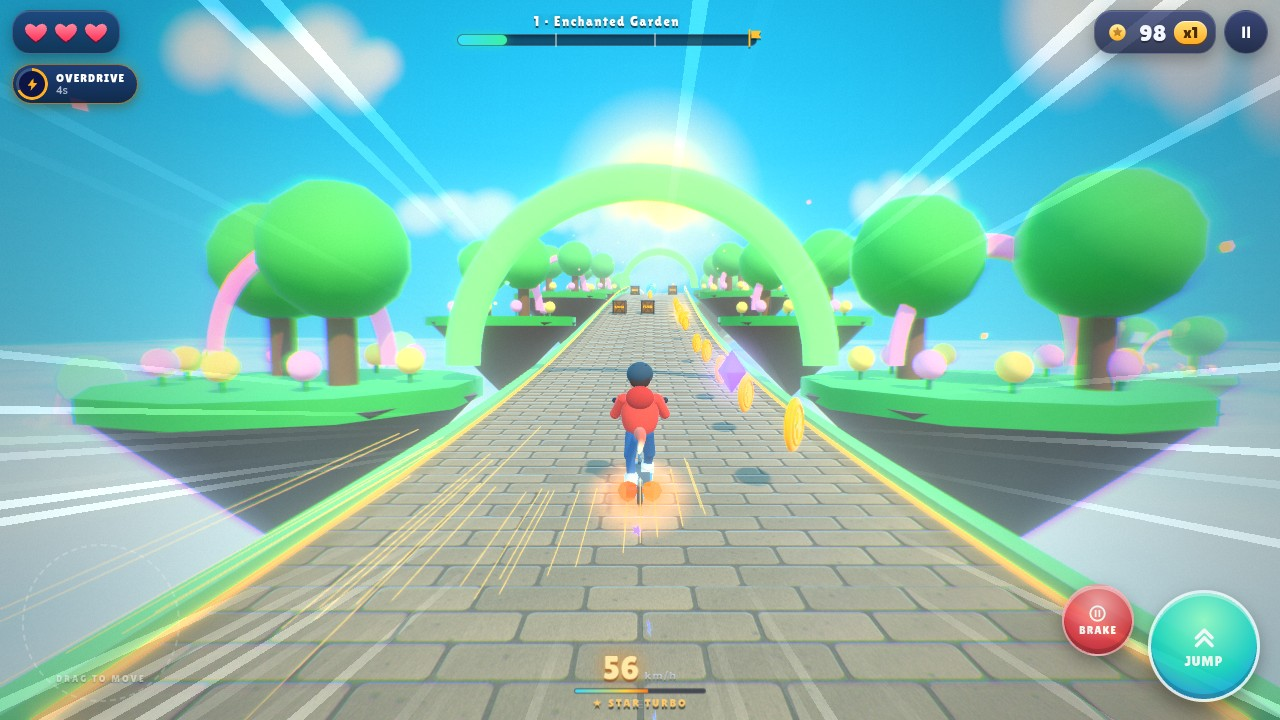
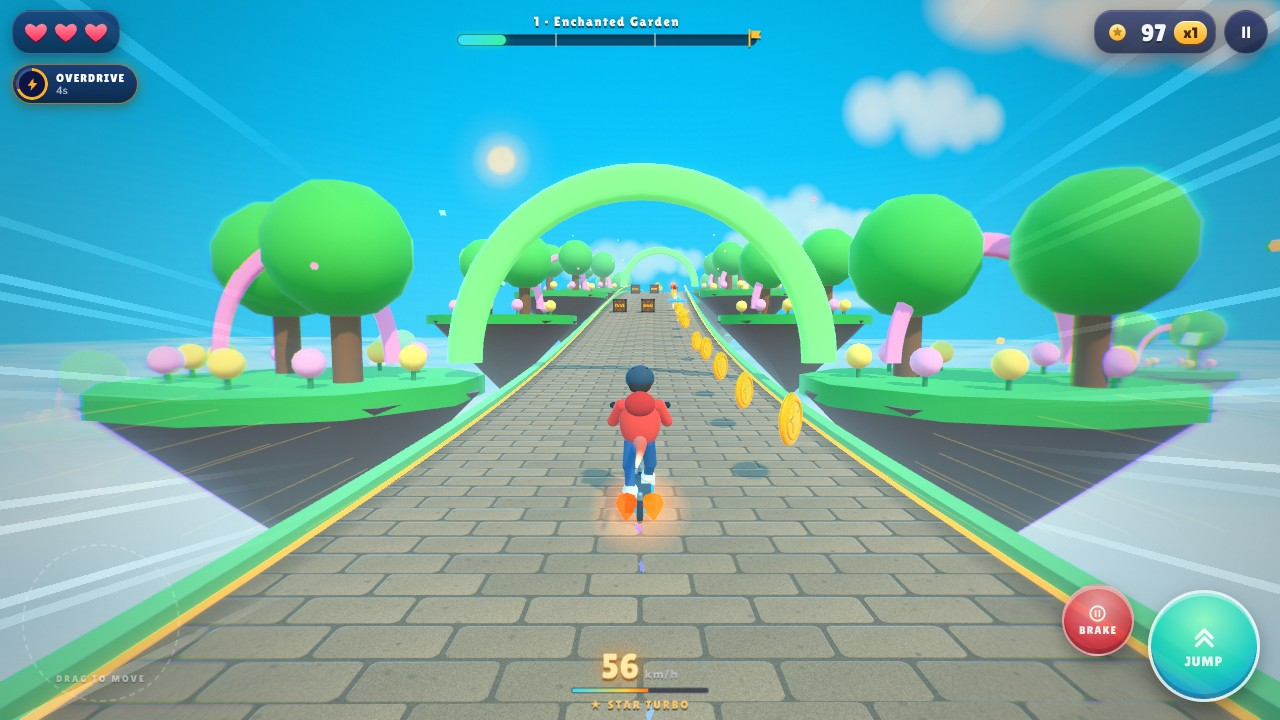
feat: readable lighting — remove sun glare, cut bloom and haze across all worlds
- Sun/moon disc below HDR white, smaller, moved off the road's vanishing point
- God rays reduced ~85% and kept clear of the play area
- Bloom presets softened (threshold >= 1.0), lower highlight tints and exposure on warm/snow/final worlds
- Fog sun-scatter and fresnel rim reduced; thinner fog in warm worlds
- Storm glass road no longer reflects a specular streak; route edge glows trimmed
- Key light slightly lower with more fill so scenes stay bright
- Refreshed README screenshots

Claude-Session: https://claude.ai/code/session_01XBGyhc1orUL9UE9TJQYtvX

diff --git a/app/src/main/assets/game/js/postFx.js b/app/src/main/assets/game/js/postFx.js
@@ -29,10 +29,10 @@ window.PostFX = class PostFX {
     const C = THREE.Color;
     // Live (smoothed) grade values and the preset they are easing toward.
     this.state = {
-      exposure: 1.0, bloom: 0.45, threshold: 1.0, knee: 0.6, saturation: 1.1, contrast: 1.08, vignette: 0.32,
+      exposure: 1.0, bloom: 0.26, threshold: 1.05, knee: 0.35, saturation: 1.1, contrast: 1.08, vignette: 0.32,
       bloomTint: new C(1, 1, 1), temp: new C(1, 1, 1), shadowTint: new C(0, 0, 0), highlightTint: new C(0, 0, 0),
       vignetteColor: new C(0, 0, 0), grain: 0.008, ca: 0, speed: 0, speedLines: 0, flash: 0, warn: 0, flashColor: new C(1, 0.12, 0.1),
-      lift: 0.0, god: 0.35, godLive: 0, sunUV: new C(0.5, 0.8, 0)
+      lift: 0.0, god: 0.08, godLive: 0, sunUV: new C(0.5, 0.8, 0)
     };
     this.target = this.cloneState(this.state);
     this.features = { blur: true, ca: true, lines: true, grain: true, rays: true };
@@ -243,7 +243,7 @@ window.PostFX = class PostFX {
           col.r = texture2D(tScene, uv - o).r;
           col.b = texture2D(tScene, uv + o).b;
         }
-        vec3 bloomC = uUseBloom > 0.5 ? texture2D(tBloom, uv).rgb * uBloom * uBloomTint * mix(0.68, 1.0, peripheral) : vec3(0.0);
+        vec3 bloomC = uUseBloom > 0.5 ? texture2D(tBloom, uv).rgb * uBloom * uBloomTint * mix(0.55, 1.0, peripheral) : vec3(0.0);
         // Crepuscular rays: radially smear the bright (sun) pixels toward the sun; trees and
         // islands are dark in the bloom buffer, so the rays are naturally cut by them.
         if (uGod > 0.004 && uUseBloom > 0.5) {
@@ -254,7 +254,7 @@ window.PostFX = class PostFX {
           for (int i = 0; i < 10; i++) { sp += stepv; rays += texture2D(tBloom, sp).rgb * wgt; wgt *= 0.9; }
           // Keep the rider (screen centre, lower half) free of the veil so the hero always reads.
           float clearZone = smoothstep(0.10, 0.34, length((uv - uCenter) * vec2(aspect, 1.0)));
-          bloomC += rays * uGod * falloff * clearZone * mix(0.28, 1.0, peripheral) * 0.06 * uBloomTint;
+          bloomC += rays * uGod * falloff * clearZone * mix(0.15, 1.0, peripheral) * 0.018 * uBloomTint;
         }
         vec3 c;
         if (uFxaa > 0.5 && localSpeed < 0.002 && localCA < 0.0005) {
@@ -391,25 +391,27 @@ window.PostFX = class PostFX {
   // ---------- Grade presets ----------
   // Values are targets; the live state eases toward them so world changes cross-fade.
   static presetFor(theme) {
-    const base = { exposure: 1.02, bloom: 0.42, threshold: 0.95, knee: 0.4, saturation: 1.12, contrast: 1.1, vignette: 0.30,
-      temp: [1.02, 1.0, 0.97], shadow: [0.0, 0.01, 0.03], highlight: [0.03, 0.02, 0.0], bloomTint: [1, 0.96, 0.9], vignetteColor: [0.02, 0.04, 0.08], lift: 0.0, god: 0.26 };
+    // Readability pass: bloom only catches true highlights (threshold >= 1), stays soft, and
+    // light shafts are a faint accent. Saturation/contrast/tints keep each world's look.
+    const base = { exposure: 1.0, bloom: 0.26, threshold: 1.05, knee: 0.35, saturation: 1.12, contrast: 1.1, vignette: 0.26,
+      temp: [1.02, 1.0, 0.97], shadow: [0.0, 0.01, 0.03], highlight: [0.02, 0.012, 0.0], bloomTint: [1, 0.96, 0.9], vignetteColor: [0.02, 0.04, 0.08], lift: 0.0, god: 0.08 };
     const P = {
       garden:       { ...base },
-      desert:       { ...base, god: 0.3, exposure: 0.93, temp: [1.06, 1.0, 0.9], saturation: 1.16, highlight: [0.05, 0.025, 0.0], bloom: 0.36, shadow: [0.03, 0.0, 0.01], vignetteColor: [0.08, 0.03, 0.0] },
-      forest:       { ...base, temp: [0.98, 1.03, 0.98], shadow: [0.0, 0.03, 0.02], saturation: 1.14, vignette: 0.36, vignetteColor: [0.0, 0.05, 0.03] },
-      castle_bridge:{ ...base, temp: [1.0, 1.0, 1.02], contrast: 1.12 },
-      waterfalls:   { ...base, temp: [0.97, 1.02, 1.05], saturation: 1.15, bloom: 0.5 },
-      crystal:      { ...base, god: 0.14, temp: [1.0, 0.97, 1.06], shadow: [0.03, 0.0, 0.07], highlight: [0.03, 0.0, 0.05], saturation: 1.2, bloom: 0.58, threshold: 0.9, contrast: 1.14, vignette: 0.4, vignetteColor: [0.05, 0.0, 0.1] },
-      snow:         { ...base, god: 0.16, temp: [0.97, 1.0, 1.06], saturation: 1.04, exposure: 0.9, bloom: 0.22, threshold: 1.15, lift: 0.0, shadow: [0.0, 0.02, 0.05] },
-      volcano:      { ...base, god: 0.5, temp: [1.08, 0.97, 0.9], shadow: [0.06, 0.0, 0.0], highlight: [0.06, 0.02, 0.0], saturation: 1.18, contrast: 1.18, bloom: 0.7, threshold: 0.85, vignette: 0.45, vignetteColor: [0.1, 0.0, 0.0] },
-      mushroom:     { ...base, temp: [1.02, 1.0, 1.02], saturation: 1.2, bloom: 0.55, shadow: [0.04, 0.0, 0.05] },
-      temple:       { ...base, god: 0.4, exposure: 0.96, temp: [1.06, 1.02, 0.92], saturation: 1.1, highlight: [0.05, 0.03, 0.0], vignette: 0.36, vignetteColor: [0.06, 0.03, 0.0] },
-      sunset:       { ...base, god: 0.7, temp: [1.09, 0.99, 0.9], saturation: 1.2, bloom: 0.62, threshold: 0.85, highlight: [0.06, 0.02, 0.01], shadow: [0.04, 0.0, 0.04], vignette: 0.38, vignetteColor: [0.1, 0.02, 0.04] },
-      workshop:     { ...base, temp: [1.03, 1.0, 0.96], saturation: 1.05, contrast: 1.14, bloom: 0.5 },
-      storm:        { ...base, god: 0.0, temp: [0.96, 1.0, 1.05], saturation: 0.98, contrast: 1.16, exposure: 0.98, vignette: 0.5, bloom: 0.5, shadow: [0.0, 0.02, 0.05], vignetteColor: [0.0, 0.02, 0.06] },
-      moon:         { ...base, god: 0.22, temp: [0.96, 0.98, 1.08], saturation: 1.12, bloom: 0.85, threshold: 0.75, contrast: 1.16, vignette: 0.46, shadow: [0.02, 0.02, 0.08], highlight: [0.02, 0.03, 0.06], vignetteColor: [0.02, 0.02, 0.08], exposure: 1.05 },
-      rapids:       { ...base, temp: [1.0, 1.0, 1.02], saturation: 1.22, bloom: 0.6 },
-      grand_run:    { ...base, god: 0.16, exposure: 0.84, saturation: 1.15, bloom: 0.34, threshold: 1.1, contrast: 1.14 }
+      desert:       { ...base, god: 0.08, exposure: 0.9, temp: [1.04, 1.0, 0.93], saturation: 1.14, highlight: [0.025, 0.012, 0.0], bloom: 0.22, shadow: [0.02, 0.0, 0.01], vignetteColor: [0.08, 0.03, 0.0] },
+      forest:       { ...base, temp: [0.98, 1.03, 0.98], shadow: [0.0, 0.03, 0.02], saturation: 1.14, vignette: 0.3, vignetteColor: [0.0, 0.05, 0.03] },
+      castle_bridge:{ ...base, temp: [1.0, 1.0, 1.02], contrast: 1.12, exposure: 0.97 },
+      waterfalls:   { ...base, temp: [0.97, 1.02, 1.05], saturation: 1.15, bloom: 0.3 },
+      crystal:      { ...base, god: 0.05, temp: [1.0, 0.97, 1.06], shadow: [0.03, 0.0, 0.07], highlight: [0.02, 0.0, 0.03], saturation: 1.18, bloom: 0.36, threshold: 1.0, contrast: 1.14, vignette: 0.34, vignetteColor: [0.05, 0.0, 0.1] },
+      snow:         { ...base, god: 0.05, temp: [0.97, 1.0, 1.05], saturation: 1.06, exposure: 0.86, bloom: 0.16, threshold: 1.2, lift: 0.0, contrast: 1.14, shadow: [0.0, 0.02, 0.05] },
+      volcano:      { ...base, god: 0.1, temp: [1.06, 0.98, 0.92], shadow: [0.05, 0.0, 0.0], highlight: [0.03, 0.01, 0.0], saturation: 1.15, contrast: 1.16, bloom: 0.36, threshold: 1.0, vignette: 0.38, vignetteColor: [0.1, 0.0, 0.0] },
+      mushroom:     { ...base, temp: [1.02, 1.0, 1.02], saturation: 1.18, bloom: 0.32, shadow: [0.04, 0.0, 0.05] },
+      temple:       { ...base, god: 0.08, exposure: 0.92, temp: [1.04, 1.01, 0.94], saturation: 1.1, highlight: [0.025, 0.015, 0.0], vignette: 0.3, vignetteColor: [0.06, 0.03, 0.0] },
+      sunset:       { ...base, god: 0.12, exposure: 0.93, temp: [1.06, 0.99, 0.93], saturation: 1.16, bloom: 0.34, threshold: 1.0, highlight: [0.03, 0.01, 0.005], shadow: [0.04, 0.0, 0.04], contrast: 1.14, vignette: 0.32, vignetteColor: [0.1, 0.02, 0.04] },
+      workshop:     { ...base, temp: [1.03, 1.0, 0.96], saturation: 1.06, contrast: 1.14, bloom: 0.3 },
+      storm:        { ...base, god: 0.0, temp: [0.96, 1.0, 1.05], saturation: 1.0, contrast: 1.16, exposure: 0.98, vignette: 0.4, bloom: 0.3, shadow: [0.0, 0.02, 0.05], vignetteColor: [0.0, 0.02, 0.06] },
+      moon:         { ...base, god: 0.05, temp: [0.96, 0.98, 1.08], saturation: 1.12, bloom: 0.42, threshold: 0.95, contrast: 1.16, vignette: 0.38, shadow: [0.02, 0.02, 0.08], highlight: [0.01, 0.02, 0.04], vignetteColor: [0.02, 0.02, 0.08], exposure: 1.02 },
+      rapids:       { ...base, temp: [1.0, 1.0, 1.02], saturation: 1.18, bloom: 0.32, exposure: 0.96 },
+      grand_run:    { ...base, god: 0.05, exposure: 0.8, saturation: 1.16, bloom: 0.2, threshold: 1.2, contrast: 1.18 }
     };
     return P[theme] || P.garden;
   }

diff --git a/app/src/main/assets/game/js/skyAtmosphere.js b/app/src/main/assets/game/js/skyAtmosphere.js
@@ -267,7 +267,7 @@ window.SkyAtmosphere = class SkyAtmosphere {
         const wr=Math.round(warm.r*255),wg=Math.round(warm.g*255),wb=Math.round(warm.b*255);
         const glow=ctx.createLinearGradient(0,190,0,300);
         glow.addColorStop(0,'rgba(255,255,255,0)');
-        glow.addColorStop(1,`rgba(${wr},${wg},${wb},${warmTheme?.34:.26})`);
+        glow.addColorStop(1,`rgba(${wr},${wg},${wb},${warmTheme?.16:.12})`);
         ctx.fillStyle=glow;ctx.fillRect(0,190,1024,110);
       }
 
@@ -315,9 +315,9 @@ window.SkyAtmosphere = class SkyAtmosphere {
     if (ctx) {
       const g = ctx.createRadialGradient(128, 128, 0, 128, 128, 128);
       g.addColorStop(0, 'rgba(255,255,255,1)');
-      g.addColorStop(0.12, 'rgba(255,255,255,1)');
-      g.addColorStop(0.3, 'rgba(255,255,255,0.75)');
-      g.addColorStop(0.6, 'rgba(255,255,255,0.25)');
+      g.addColorStop(0.2, 'rgba(255,255,255,1)');
+      g.addColorStop(0.28, 'rgba(255,255,255,0.45)');
+      g.addColorStop(0.55, 'rgba(255,255,255,0.08)');
       g.addColorStop(1, 'rgba(255,255,255,0)');
       ctx.fillStyle = g;
       ctx.fillRect(0, 0, 256, 256);
@@ -343,21 +343,23 @@ window.SkyAtmosphere = class SkyAtmosphere {
       this.sunWorld = null;
       return;
     }
+    // Readability: the disc stays below HDR white (no bloom/ray source), is smaller, and sits
+    // off to the side of the route so it never glares over the road's vanishing point.
     if (this.isNight) {
-      this.sunSprite.material.color.set(0xdfe9ff).multiplyScalar(1.7);
-      this.sunSprite.material.opacity = 0.9;
-      this.sunSprite.scale.set(110, 110, 1);
-      this.sunWorld = { lateral: -60, height: 100, distance: 420 };
+      this.sunSprite.material.color.set(0xdfe9ff).multiplyScalar(0.95);
+      this.sunSprite.material.opacity = 0.8;
+      this.sunSprite.scale.set(80, 80, 1);
+      this.sunWorld = { lateral: -170, height: 125, distance: 420 };
     } else if (theme === 'sunset' || theme === 'volcano' || theme === 'desert') {
-      this.sunSprite.material.color.set(0xffc98a).multiplyScalar(1.6);
-      this.sunSprite.material.opacity = 1.0;
-      this.sunSprite.scale.set(230, 230, 1);
-      this.sunWorld = { lateral: 0, height: 42, distance: 520 };
+      this.sunSprite.material.color.set(0xffd2a0).multiplyScalar(0.9);
+      this.sunSprite.material.opacity = 0.75;
+      this.sunSprite.scale.set(120, 120, 1);
+      this.sunWorld = { lateral: 190, height: 80, distance: 520 };
     } else {
-      this.sunSprite.material.color.set(0xffe9b8).multiplyScalar(1.45);
-      this.sunSprite.material.opacity = 1.0;
-      this.sunSprite.scale.set(185, 185, 1);
-      this.sunWorld = { lateral: 30, height: 105, distance: 450 };
+      this.sunSprite.material.color.set(0xfff0cc).multiplyScalar(0.92);
+      this.sunSprite.material.opacity = 0.75;
+      this.sunSprite.scale.set(100, 100, 1);
+      this.sunWorld = { lateral: 170, height: 135, distance: 450 };
     }
     this.sunSprite.visible = true;
   }

diff --git a/app/src/main/assets/game/js/game.js b/app/src/main/assets/game/js/game.js
@@ -219,11 +219,11 @@ window.SkyScooterGame = class SkyScooterGame {
       rimColor = new THREE.Color(0x9fd9ff); rimIntensity = 1.0;
     } else if (isWarm) {
       dirColor = new THREE.Color(0xffc48f);
-      dirIntensity = 2.7; hemiIntensity = 0.85; exposure = 1.04;
+      dirIntensity = 2.3; hemiIntensity = 0.92; exposure = 1.0;
       rimColor = new THREE.Color(0xffa26b); rimIntensity = 1.2;
     } else {
       dirColor = new THREE.Color(0xfff0d6);
-      dirIntensity = 2.6; hemiIntensity = 0.95; exposure = 1.0;
+      dirIntensity = 2.35; hemiIntensity = 1.0; exposure = 1.0;
       rimColor = new THREE.Color(0xa6d8ff); rimIntensity = 0.95;
     }
 
@@ -262,6 +262,8 @@ window.SkyScooterGame = class SkyScooterGame {
     new this.THREE.Color(roundData.skyColor).getHSL(hsl);
     if (hsl.l < 0.35) return 0.004;
     if (roundData.theme === 'storm') return 0.009;
+    // Warm worlds have bright, saturated fog: thinner so far hazards keep their contrast.
+    if (['desert', 'temple', 'sunset', 'volcano'].includes(roundData.theme)) return 0.0048;
     return 0.006;
   }
 

diff --git a/app/src/main/assets/game/js/roadArt.js b/app/src/main/assets/game/js/roadArt.js
@@ -311,7 +311,7 @@ window.RoadArt = class RoadArt {
     for (let x = 0; x <= W; x += 128) for (const c of [ctx, gctx]) { c.beginPath(); c.moveTo(x, 0); c.lineTo(x, H); c.stroke(); }
     for (let y = 0; y <= H; y += 128) for (const c of [ctx, gctx]) { c.beginPath(); c.moveTo(0, y); c.lineTo(W, y); c.stroke(); }
     this.wrap(ctx, () => { for (let i = 0; i < 5; i++) { const x = R() * W; const s = ctx.createLinearGradient(x, 0, x + 140, H); s.addColorStop(0, 'rgba(255,255,255,0)'); s.addColorStop(0.5, 'rgba(255,255,255,0.13)'); s.addColorStop(1, 'rgba(255,255,255,0)'); ctx.fillStyle = s; ctx.fillRect(x, 0, 140, H); } });
-    spec.glow = 0.8; spec.roughness = 0.26; spec.metalness = 0.2; spec.bump = 0; spec.env = 1.25; // glassy, not a mirror
+    spec.glow = 0.6; spec.roughness = 0.42; spec.metalness = 0.15; spec.bump = 0; spec.env = 0.85; // glassy, no specular streak down the lane
   }
   paint_moon(P, spec) {
     const { ctx, hctx, R, base } = P, W = this.W, H = this.H;

diff --git a/app/src/main/assets/game/js/enhancedTrack.js b/app/src/main/assets/game/js/enhancedTrack.js
@@ -87,7 +87,7 @@ window.TrackGenerator = class EnhancedTrack extends window.TrackGenerator {
       this.roadArt.disposeExcept(art);
     }
     this.routeCurb.color.set(round.railColor).multiplyScalar(.85);
-    this.routeGlow.color.copy(this.routeAccent.color).multiplyScalar(['crystal_floor','lava_plates','moon_rocks','storm_skyway','rainbow_rapids'].includes(round.routeStyle)?2.6:1.9);
+    this.routeGlow.color.copy(this.routeAccent.color).multiplyScalar(['crystal_floor','lava_plates','moon_rocks','storm_skyway','rainbow_rapids'].includes(round.routeStyle)?2.0:1.6);
     this.cityRoad.color.set(round.roadColor);
     this.citySidewalk.color.set(round.theme==='snow'?0xb7c4ca:0x818b96);
     this.cityRail.color.set(round.theme==='neon'?0x3a5a79:0x334552);

diff --git a/app/src/main/assets/game/js/materialFx.js b/app/src/main/assets/game/js/materialFx.js
@@ -116,9 +116,9 @@ window.SceneFx = (function () {
       const night = ['moon', 'neon'].includes(theme);
       const storm = theme === 'storm';
       U.uSunColor.value.set(night ? 0xa9c1ff : warm ? 0xffb066 : storm ? 0xcfe4ff : 0xffe4a8);
-      U.uSunScatter.value = night ? 0.3 : storm ? 0.2 : warm ? 0.5 : 0.4;
+      U.uSunScatter.value = night ? 0.12 : storm ? 0.08 : warm ? 0.16 : 0.14; // low: haze must not wash out the road
       U.uRimColor.value.set(night ? 0x7f98ff : warm ? 0xffa46d : 0x9fd6ff);
-      U.uRimStrength.value = night ? 0.5 : storm ? 0.25 : 0.32;
+      U.uRimStrength.value = night ? 0.38 : storm ? 0.2 : 0.24;
       U.uFogBase.value = -5.0;
       U.uHeightFog.value = storm ? 0.9 : 0.7;
     },
